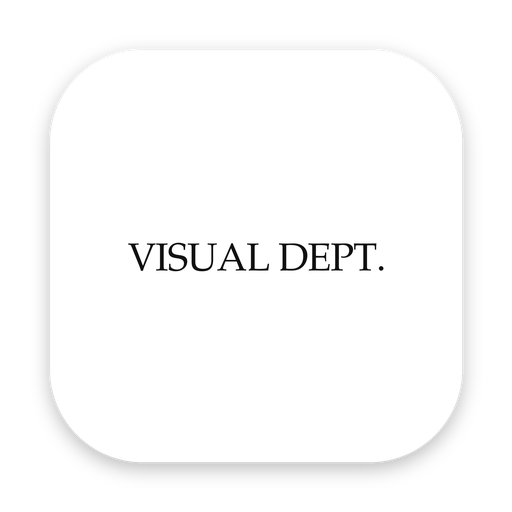
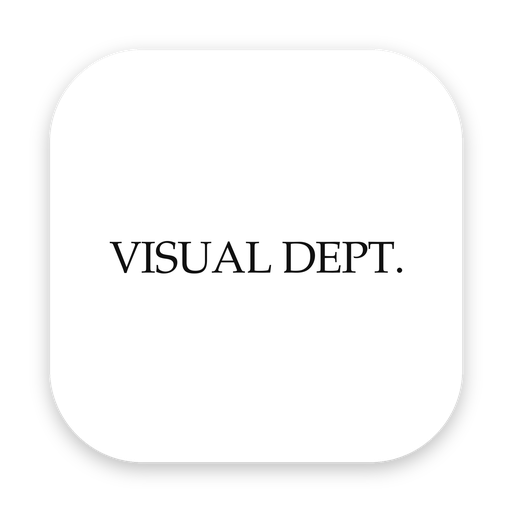
아이콘 글자 크기 중간으로 조정
Claude-Session: https://claude.ai/code/session_016iQssjkfjgjy4N2y3kdkik

Changed region(s): [[0.2188, 0.4688, 0.7812, 0.5312]]

diff --git a/index.html b/index.html
@@ -1,8 +1,8 @@
 <!doctype html>
 <html lang="en"><head><meta charset="utf-8"><meta name="viewport" content="width=device-width,initial-scale=1,viewport-fit=cover">
 <title>VISUAL DEPT.</title>
-<meta name="theme-color" content="#ffffff"><link rel="manifest" href="manifest.webmanifest?v=4"><link rel="icon" href="icon-192.png?v=4"><link rel="apple-touch-icon" id="ati" href="apple-touch-icon.png?v=4">
-<script>if(/Mac/.test(navigator.platform)&&!navigator.maxTouchPoints)document.getElementById("ati").href="apple-touch-icon-mac.png?v=4"</script>
+<meta name="theme-color" content="#ffffff"><link rel="manifest" href="manifest.webmanifest?v=5"><link rel="icon" href="icon-192.png?v=5"><link rel="apple-touch-icon" id="ati" href="apple-touch-icon.png?v=5">
+<script>if(/Mac/.test(navigator.platform)&&!navigator.maxTouchPoints)document.getElementById("ati").href="apple-touch-icon-mac.png?v=5"</script>
 <meta name="apple-mobile-web-app-capable" content="yes"><meta name="apple-mobile-web-app-title" content="VISUAL DEPT."><meta name="apple-mobile-web-app-status-bar-style" content="default">
 <style>body{margin:0}img{max-width:100%}[hidden]{display:none!important}:root{padding-top:env(safe-area-inset-top,0px);padding-bottom:env(safe-area-inset-bottom,0px)}</style>
 <script src="config.js"></script>
